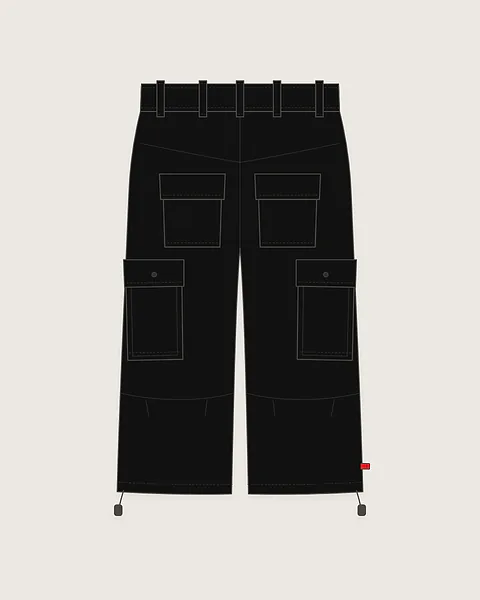
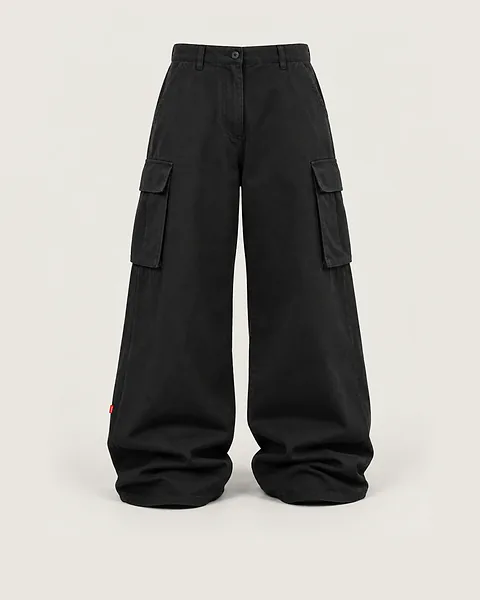
Cargo Altura en foto: base baggy generada con IA y etiqueta tejida en el bolsillo
Sin foto de espalda, la vista trasera usa el frente reflejado y sin gráficos (en vez de
volver al dibujo técnico). Las demás bases siguen pendientes de descarga.

Claude-Session: https://claude.ai/code/session_0114MfUAYKTnDUHECcZtXrH8

diff --git a/scripts/mockups/placements.ts b/scripts/mockups/placements.ts
@@ -70,6 +70,8 @@ const GEOMETRY: Record<string, Geometry> = {
   'ls-back': { back: { x: 480, y: 280, ref: 580, top: true, curve: 1.5 } }, // miniatura
   // Pantalones baggy (bases 53:2–68:2): perneras anchas de ~300 px.
   'jogger-front': { thigh: { x: 610, y: 340, ref: 300 } }, // miniatura
+  // Cargo baggy (53:2): bolsillo lateral izquierdo de 233 a 310 px, tapeta hasta 435.
+  'cargo-negro-front': { pocket: { x: 271, y: 512, ref: 220 } },
   'cargo-front': { pocket: { x: 250, y: 470, ref: 220 } }, // miniatura
   'shorts-front': { leg: { x: 690, y: 890, ref: 380 } }, // miniatura
   'cap-front': { crown: { x: 445, y: 560, ref: 420, rotate: -4, curve: 0.55 } }, // miniatura
@@ -209,6 +211,11 @@ export function resolveBase(product: Product, plan: Plan, colorId: string, side:
         note: 'espalda reconstruida desde hoodie-negro-front' + (colorId === 'negro' ? '' : ` y teñida`),
       };
     }
+  }
+  // Sin foto de espalda: el frente reflejado y sin gráficos (mejor que mezclar foto y dibujo).
+  if (side === 'back') {
+    const front = resolveBase(product, plan, colorId, 'front');
+    if (front) return { ...front, side: 'back', mirror: !front.mirror, blank: true, note: [front.note, 'sin base de espalda: frente reflejado'].filter(Boolean).join('; ') };
   }
   return undefined;
 }
